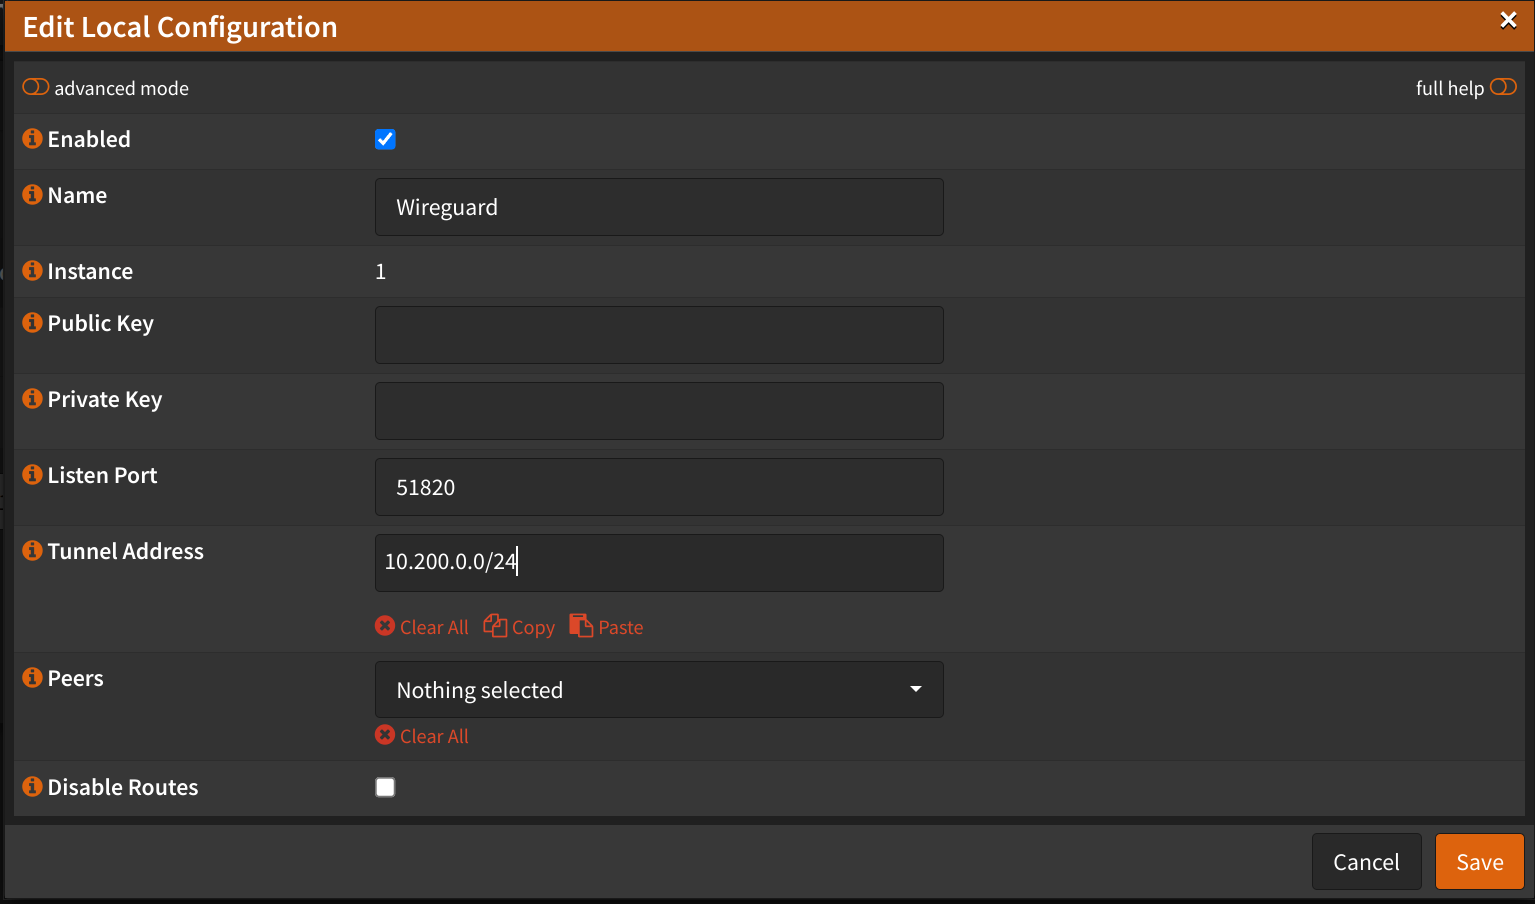
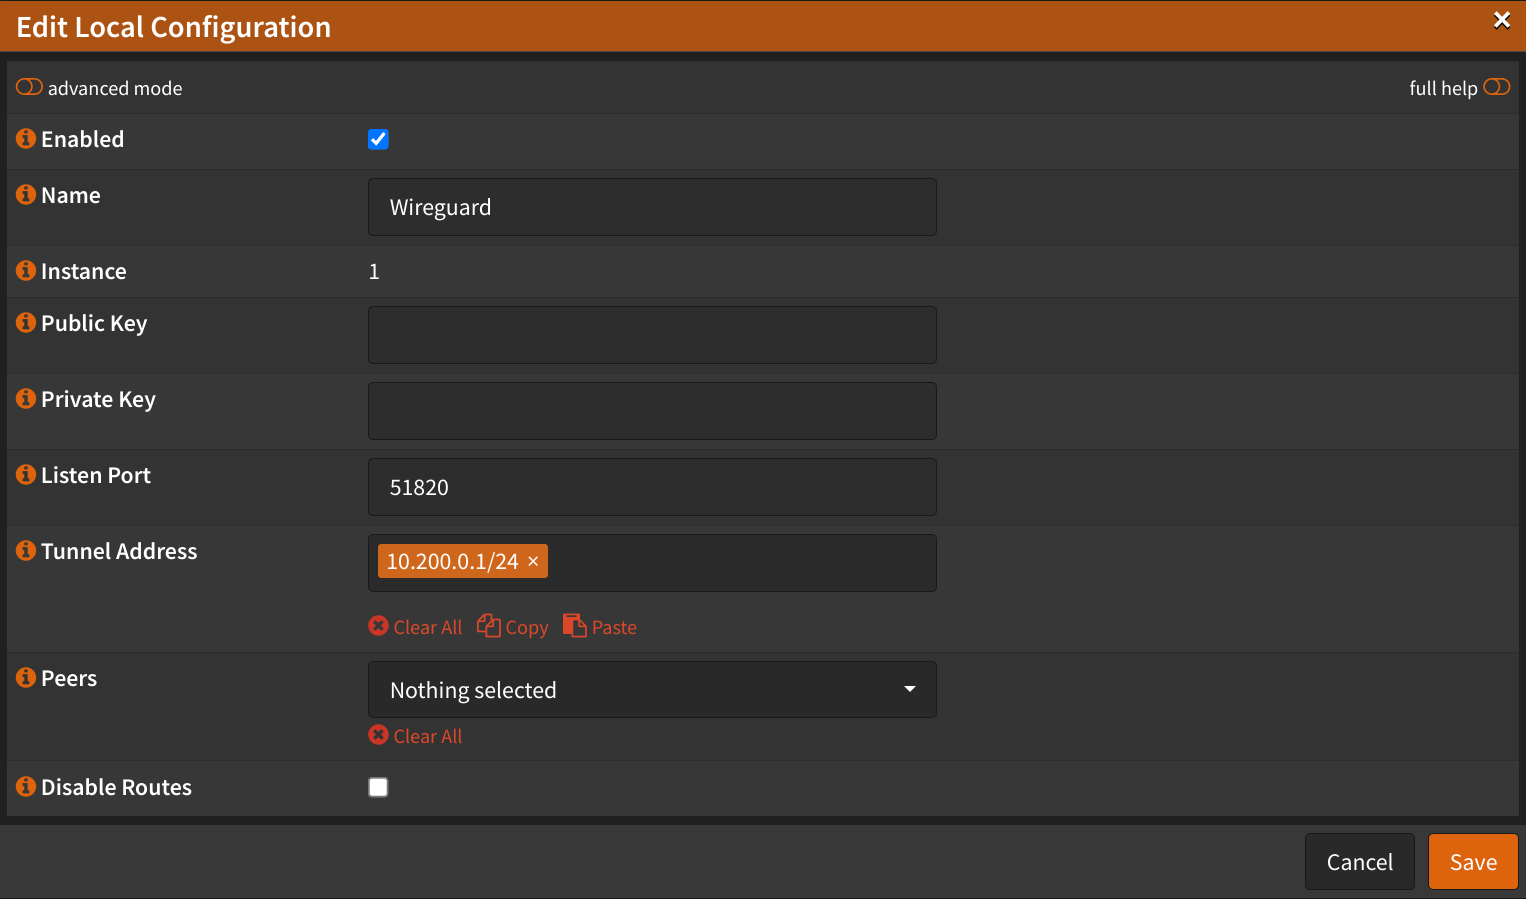
extend

diff --git a/docs/networking/2-opnsense/14-wireguard/2-configuration.md b/docs/networking/2-opnsense/14-wireguard/2-configuration.md
@@ -25,7 +25,7 @@ Navigate to `VPN` -> `WireGuard` -> `Local`
 - Public Key: (Leave empty, it will be generated automatically)
 - Private Key: (Leave empty, it will be generated automatically)
 - Listen Port: `51820`
-- Tunnel Address: `10.200.0.0/24`
+- Tunnel Address: `10.200.0.1/24`
 - Peers: (Leave empty, we will add them later)
 - Uncheck `Disable routes`
 - Click <kbd>Save</kbd>
@@ -56,14 +56,17 @@ Navigate to `Interfaces` -> `Assignments`
 
 ## Firewall
 
-Navigate to `Firewall` -> `Rules` -> `WIREGUARD`
-
 :::warning
 
 These rules will allow all traffic from wireguard interface to
 the firewall. You might want to change this to your needs.
 
 :::
+
+### Wireguard Inbound Rule
+
+Navigate to `Firewall` -> `Rules` -> `WIREGUARD`
+
 
 - Click <kbd>➕</kbd>
 - Action: `Pass`
@@ -75,10 +78,29 @@ the firewall. You might want to change this to your needs.
 - Destination: `any`
 - Click <kbd>Save</kbd>
 
-![wireguard-rule-1](img/wireguard-rule-1.png)
-![wireguard-rule-2](img/wireguard-rule-2.png)
+![wireguard-rule-wg-in-1](img/wireguard-rule-wg-in-1.png)
+![wireguard-rule-wg-in-2](img/wireguard-rule-wg-in-2.png)
+
+### Wireguard Outbound Rule
+
+Navigate to `Firewall` -> `Rules` -> `WIREGUARD`
+
+- Click <kbd>➕</kbd>
+- Action: `Pass`
+- Interface: `WIREGUARD`
+- Direction: `out`
+- Address Family: `IPv4`
+- Protocol: `any`
+- Source: `any`
+- Destination: `any`
+- Click <kbd>Save</kbd>
+
+![wireguard-rule-wg-out-1](img/wireguard-rule-wg-out-1.png)
+![wireguard-rule-wg-out-2](img/wireguard-rule-wg-out-2.png)
 
 - Click <kbd>Apply changes</kbd>
+
+### WAN Rule
 
 Navigate to `Firewall` -> `Rules` -> `WAN`
 
@@ -95,18 +117,22 @@ Navigate to `Firewall` -> `Rules` -> `WAN`
   - to: `(other) 51820`
 - Click <kbd>Save</kbd>
 
-![wireguard-rule-3](img/wireguard-rule-3.png)
-![wireguard-rule-4](img/wireguard-rule-4.png)
+![wireguard-rule-wan-1](img/wireguard-rule-wan-1.png)
+![wireguard-rule-wan-2](img/wireguard-rule-wan-2.png)
 
 - Click <kbd>Apply changes</kbd>
 
 ## Endpoints
+
+### Copy Server Public Key
 
 Navigate to `VPN` -> `WireGuard` -> `Local`
 
 - Click <kbd>✏</kbd>
 - Copy `Public Key`, we will need it later
 - Click <kbd>Save</kbd>
+
+### Create Endpoint(s)
 
 Navigate to `VPN` -> `WireGuard` -> `Endpoints`
 
@@ -125,6 +151,17 @@ Navigate to `VPN` -> `WireGuard` -> `Endpoints`
 - Click <kbd>Apply</kbd>
 
 ![wireguard-endpoint](img/wireguard-endpoint.png)
+
+### Add Endpoint(s) to Local Configuration
+
+Navigate to `VPN` -> `WireGuard` -> `Local`
+
+- Click <kbd>✏</kbd>
+- Peers: Select the endpoints you created
+- Click <kbd>Save</kbd>
+- Click <kbd>Apply</kbd>
+
+![wireguard-peers-select](img/wireguard-peers-select.png)
 
 ## Generate Public and Private Keys and import them to clients
 
@@ -164,7 +201,7 @@ AllowedIPs = 0.0.0.0/0
 AllowedIPs = 10.0.0.0/16, 192.168.12.0/24, 192.168.11.0/24
 ```
 
-Save the above in a file, for example `wg0.conf`.
+Save the above in a file, for example `/etc/wireguard/wg0.conf`.
 
 Then run:
 
